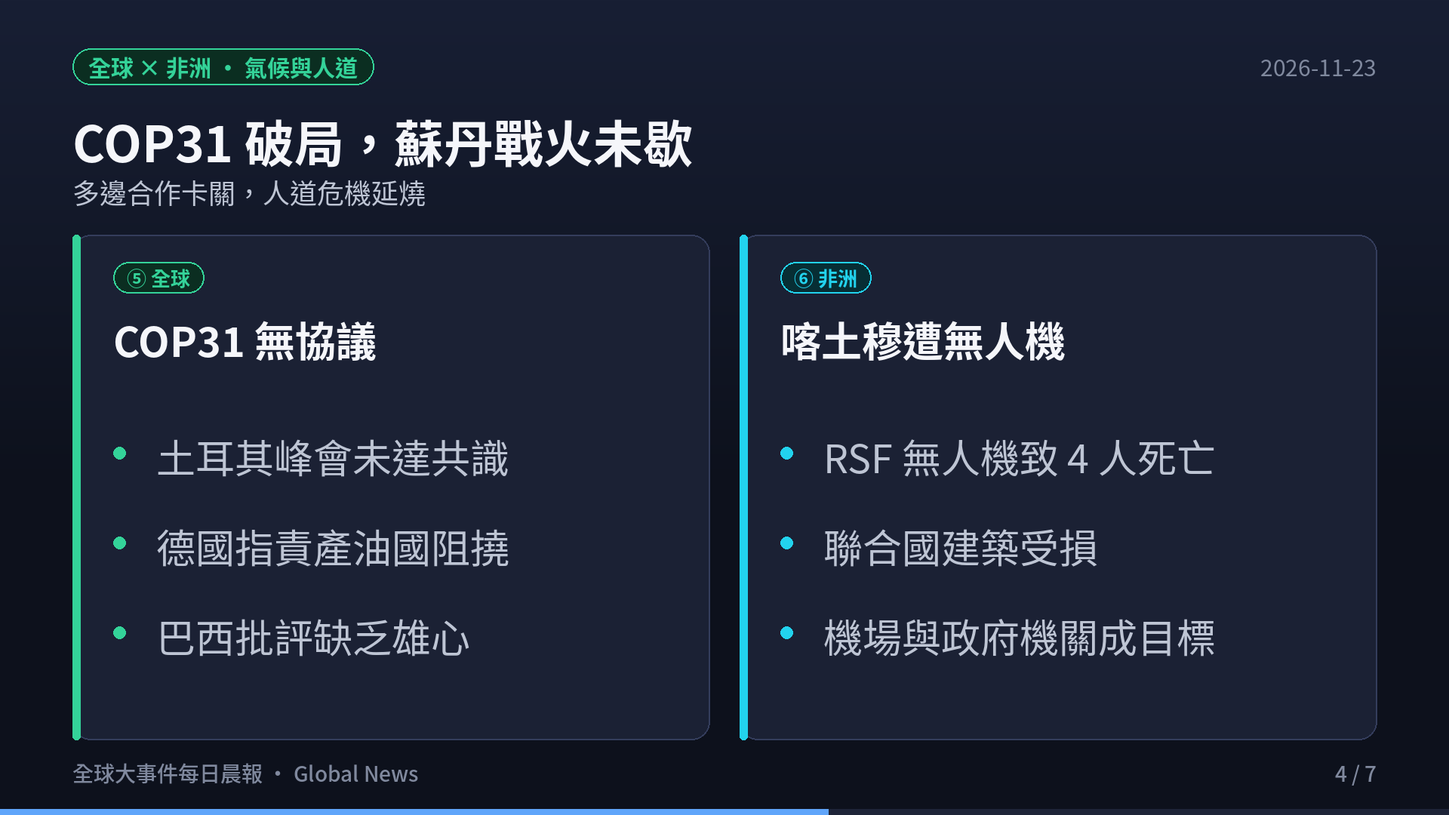
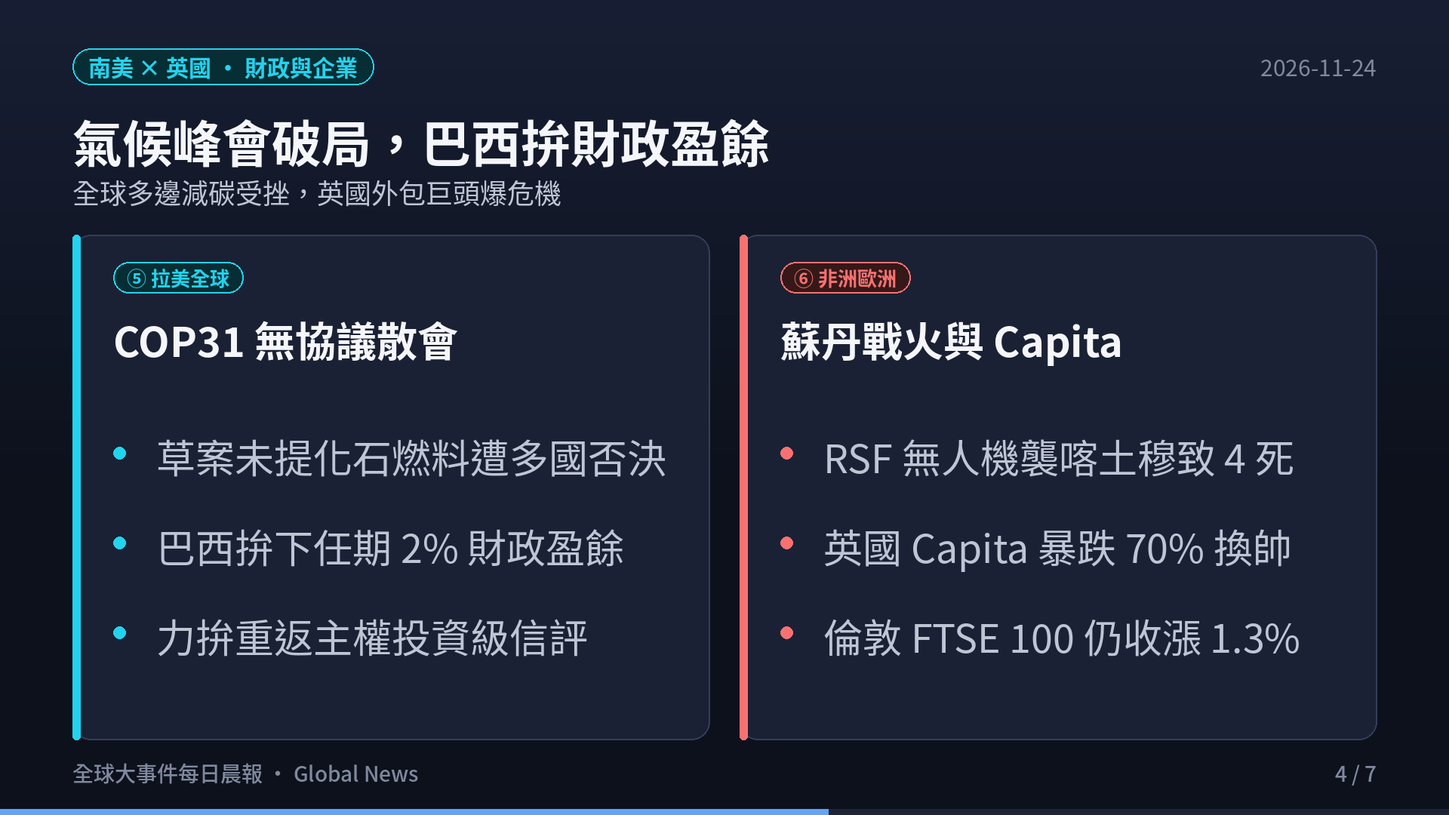
docs(global-news): 2026-11-24 briefing — Nvidia Jensen Huang rebound, Libya ship strike, COP31, top-10 economies ()

diff --git a/content/global-news/index.md b/content/global-news/index.md
@@ -1,56 +1,56 @@
 ---
-title: "美股六年最慘一週、荷莫茲油輪觸雷｜全球大事件晨報 2026-11-23"
+title: "黃仁勳回歸輝達狂飆31%、烏軍擊中俄艦｜全球大事件晨報 2026-11-24"
 url: "/global-news/"
-date: 2026-11-23T05:30:00+08:00
+date: 2026-11-24T05:30:00+08:00
 draft: false
 image: cover.png
 cover: "https://ckw19810413.github.io/global-news/cover.png"
-description: "2026-11-23 全球晨報：美股六年最慘一週、荷莫茲油輪觸雷、COP31 破局、中國穩市政策包，以及前十大經濟體動向。"
-tags: ["全球大事件", "國際局勢", "總體經濟", "美股", "荷莫茲海峽", "COP31"]
+description: "2026-11-24 全球晨報：黃仁勳復任輝達 CEO 引爆美股最強單日反彈、中國下調融資保證金至 80%、油價跌破 90 美元、烏軍擊中利比亞外海俄艦、COP31 破局與前十大經濟體動向。"
+tags: ["全球大事件", "國際局勢", "總體經濟", "輝達", "美股", "荷莫茲海峽", "COP31"]
 categories: ["國際局勢", "總體經濟"]
 aliases:
-  - "/global-news/2026-11-23/"
+  - "/global-news/2026-11-24/"
 ---
 
 <div style="margin: 2rem 0; border-radius: 12px; overflow: hidden; box-shadow: 0 4px 20px rgba(0,0,0,0.12); border: 1px solid rgba(128,128,128,0.2);">
   <div style="position: relative; padding-bottom: 56.25%; height: 0; overflow: hidden; background: #0f121c;">
-    <iframe src="https://www.youtube.com/embed/jMlyXLZtvqo" title="2026-11-23 全球大事件晨報" style="position: absolute; top:0; left: 0; width: 100%; height: 100%; border: 0;" allow="accelerometer; autoplay; clipboard-write; encrypted-media; gyroscope; picture-in-picture; web-share" allowfullscreen></iframe>
+    <iframe src="https://www.youtube.com/embed/X4gx4qY2pKw" title="2026-11-24 全球大事件晨報" style="position: absolute; top:0; left: 0; width: 100%; height: 100%; border: 0;" allow="accelerometer; autoplay; clipboard-write; encrypted-media; gyroscope; picture-in-picture; web-share" allowfullscreen></iframe>
   </div>
 </div>
 
-> **一句話看今天：** AI 交易退潮讓全球股市走完六年來最慘的一週，荷莫茲海峽又傳油輪觸雷——風險資產退潮、能源風險溢價居高不下。
+> **一句話看今天：** 黃仁勳火速重掌輝達 CEO 引爆美股創 2025 年 4 月以來最強單日反彈，那斯達克飆漲 6.51%；同時烏克蘭無人艇在利比亞外海擊中兩艘俄國軍艦，油價則因供應增加與利比亞油管重啟跌破 90 美元。
 
 ## 今日六大焦點（各大洲）
 
-![AI 交易退潮，全球股市重挫](s02.png)
+![輝達領軍強彈，中國鬆綁融資護盤](s02.png)
 
-### ① 北美｜AI 交易退潮，華爾街進入修正
-週五標普 500 下跌 3.7%、那斯達克重挫 5.3%、道瓊 -1.9%；標普單週跌 8.6%，較十月高點回落近 12%，正式進入「修正」區間，是六年多來最差的一週。MSCI 全球股票指數單週跌 8.1%，VIX 升至七個月高點。輝達單週股價重挫約 23%，新華財經報導美國 SEC 正調查其潛在會計問題。
-來源：[ABC News 市場快報](https://www.abc.net.au/news/2026-11-23/asx-markets-business-live-news-november-23/107414602)、[Westpac IQ Morning Report](https://www.westpaciq.com.au/economics/2026/11/Morning-report-23-Nov-2026)、[新華財經早報](https://www.cnfin.com/hb-lb/detail/20261122/4498614_1.html)
+### ① 北美｜黃仁勳重掌輝達 CEO，美股創 2025 年 4 月以來最強單日反彈
+輝達（Nvidia）董事會週一（11/23）宣布立即恢復黃仁勳（Jensen Huang）執行長職務，帶動輝達股價單日暴漲 31%（市值暴增近 1 兆美元）。美股三大指數全面強彈，收復上週重挫逾半失地：那斯達克暴漲 6.51% 收 24,089.56 點、標普 500 跳漲 4.73% 收 7,237.17 點、道瓊工業指數大漲 1,447.98 點（+3.01%）收 49,595.31 點；美光（Micron）大漲 19%，CoreWeave 飆升 22%，Alphabet 與 Meta 亦上漲約 6%。
+來源：[CNBC 盤後整理](https://www.cnbc.com/2026/11/22/stock-market-today-live-updates.html)、[AP News](https://apnews.com/article/stocks-markets-rates-technology-ai-anthropic-49ba1beba78fa4ed2bd5898029f79c91)、[Investopedia](https://www.investopedia.com/stock-market-today-dow-jones-s-and-p-500-nasdaq-11232026-12274147)
 
-### ② 亞洲｜中國證監會推出穩市場政策包
-11 月 22 日，在證監會統籌下，上交所、深交所、北交所與中國結算聯合推出一系列政策，目標穩定市場預期；國家發改委同時要求各地加快政府投資項目建設與資金撥付。澳洲 ASX 期貨則預示第七個連跌交易日。
-來源：[CGTN](https://news.cgtn.com/news/2026-11-22/China-rolls-out-policy-package-to-stabilize-market-and-expectations-1ShDFzCbgqc/p.html)、[澎湃新聞／經濟日報財經早餐](https://www.thepaper.cn/newsDetail_forward_34532043)
+### ② 亞太｜中國下調融資最低保證金至 80%，澳洲聯儲示警通膨風險
+中國證監會週日（11/22）核准滬、深、北三大交易所將融資買入最低保證金比例由 100% 下調至 80%（11 月 30 日起生效），同時國有資金創紀錄規模買入 ETF 護盤；週一（11/23）上證指數收漲 0.15%，創業板指勁揚 3.08%。日本東京股市 11/23 因勤勞感謝日休市，今日（11/24）復市將正面迎接美股強彈與 12 月日銀升息預期。大洋洲方面，澳洲聯儲（RBA）最新模型警告工黨政府擬議調整資本利得稅優惠恐推升通膨，ASX 盤中隨美股期指反彈。
+來源：[新華社英文網](https://english.news.cn/20261123/4e3ca972a01a47a687ccdc205e285d2f/c.html)、[CNBC TV18](https://www.cnbctv18.com/market/chinas-government-backed-funds-ramp-up-etf-buying-to-record-as-rout-deepens-20039572.htm)、[JAPAN.co.jp](https://japan.co.jp/e/japan-market-desk/)、[Sharecafe](https://www.sharecafe.com.au/2026/11/23/rba-flags-inflation-risk-as-asx-rebounds/)
 
-![海峽水雷與俄船遇襲](s03.png)
+![波斯灣衝突持續，俄烏戰線延燒地中海](s03.png)
 
-### ③ 中東｜伊朗稱兩艘超級油輪在荷莫茲觸雷
-伊朗革命衛隊（IRGC）海軍週日宣稱，兩艘超級油輪在荷莫茲海峽附近觸雷後「發生爆炸並停航」；IRGC 也稱攻擊了巴林的美軍愛國者防空雷達，葉門胡塞武裝則對沙烏地重啟攻擊。英國 UKMTO 證實美軍封鎖線附近發生「涉及軍事力量」的油輪事件。布蘭特原油約 92.6 美元。（伊方說法，尚待獨立證實）
-來源：[Anadolu](https://www.aa.com.tr/en/middle-east/iran-says-2-supertankers-struck-naval-mines-near-strait-of-hormuz/4133736)、[Euronews](https://www.euronews.com/2026/11/22/tanker-incident-involving-military-forces-reported-in-strait-of-hormuz)、[Investing.com](https://www.investing.com/news/economy-news/iran-asserts-control-over-hormuz-as-strikes-on-bahrain-and-saudi-arabia-escalate-5043802)
+### ③ 中東｜伊朗再襲波斯灣據點，布蘭特原油回落跌破 90 美元
+伊朗在短暫停火間隙後再度對波斯灣美軍基地與民用目標發動襲擊；美國總統川普表示目前無需恢復大規模軍事行動，但要求伊朗停止企圖封鎖或控制荷莫茲海峽，卡達代表團亦在德黑蘭進行外交斡旋。受中東出口供給回升與利比亞 Sharara 油管重啟影響，週一國際油價走低：布蘭特原油期貨收跌 3.20 美元（-3.5%）至每桶 89.37 美元，WTI 原油收跌 3.24 美元至每桶 80.17 美元。
+來源：[Al Jazeera](https://www.aljazeera.com/video/inside-story/2026/11/23/iran-hits-us-bases-and-civilian-sites-in-the-gulf-after-a-lull)、[AP News](https://apnews.com/article/mideast-iran-gaza-israel-houthis-libya-november-23-2026-c2cb6de3515f887a5786c1147e918489)、[Newsquawk](https://www.newsquawk.com/headlines/crude-wrap-wti-f7-settles-usd-324-lower-at-8017bbl-brent-f7-settles-usd-320-lower-at-8937bbl)
 
-### ④ 歐洲｜俄國船隻接連遇襲，俄軍續攻烏克蘭電網
-利比亞班加西港一艘俄國船發生爆炸，利比亞官員稱疑為烏克蘭無人機攻擊；芬蘭灣另有一艘赴俄貨輪遇襲後被拖離。俄軍則持續打擊烏克蘭電廠與敖德薩港口設施。
-來源：[The Guardian](https://www.theguardian.com/world)、[BBC World](https://www.bbc.com/news/world)
+### ④ 歐非｜烏軍無人艇擊中利比亞外海兩艘俄艦，歐盟拍板 2027 預算與 ECB 新人選
+烏克蘭總統澤倫斯基證實，烏軍海軍無人艇在利比亞東部班加西（Benghazi）外海擊中兩艘俄國艦艇，其中一艘護衛艦沉沒，將俄烏戰線推進至北非地中海海域。歐洲財金方面，歐盟理事會 11/23 正式通過 2027 年歐盟預算（承諾總額 1,997 億歐元、支付總額 2,115 億歐元）；法德也完成歐洲央行（ECB）執委提名政治協議，法國提名 Laurence Boone、德國提名 Markus Brunnermeier。
+來源：[AP News](https://apnews.com/article/libya-russia-ukriane-war-benghazi-ship-drone-cbd82b965a111dcf4605b8b2d0493780)、[The Guardian](https://www.theguardian.com/world/2026/nov/23/ukraine-naval-drones-strike-russian-warship-libya)、[Consilium](https://www.consilium.europa.eu/en/press/press-releases/2026/11/23/eu-budget-for-2027-council-gives-final-green-light/)、[RTÉ](https://www.rte.ie/news/business/2026/1123/1600251-france-and-germany-to-take-key-ecb-roles/)
 
-![COP31 破局，蘇丹戰火未歇](s04.png)
+![氣候峰會破局，巴西拚財政盈餘](s04.png)
 
-### ⑤ 全球｜COP31 氣候峰會破局
-在土耳其舉行、史上最長的聯合國氣候大會經兩週談判仍未通過最終宣言；德國政府指責沙烏地、俄羅斯等產油國阻撓，巴西代表團批評結果「缺乏雄心」，聯合國秘書長強調「科學毫無模糊空間」。
-來源：[UN News](https://news.un.org/)、[Deutschlandfunk](https://www.deutschlandfunk.de/nachrichten-index-40734.html)、[G1](https://g1.globo.com/meio-ambiente/noticia/2026/11/22/cop31-fracasso-brasil-turquia.ghtml)
+### ⑤ 全球與南美｜COP31 氣候峰會無協議破局，巴西瞄準 2% 基本財政盈餘
+在土耳其舉行的史上最長聯合國氣候大會（COP31）延長談判兩天後正式破局，主席國澳洲與土耳其提出的最終草案因未提及化石燃料退場而遭多國否決。南美最大經濟體巴西財長 Dario Durigan 週一宣布，政府目標在總統魯拉下一任期末達成占 GDP 1.5% 至 2% 的基本財政盈餘，力拚重返失去十餘年的投資級主權信評。
+來源：[ABC News](https://www.abc.net.au/news/2026-11-23/cop31-talks-break-down-in-longest-ever-un-climate-debate/107414772)、[BBC World](https://www.bbc.co.uk/news/articles/cky970n83rvjo)、[Reuters／Investing.com](https://www.investing.com/news/economy-news/brazil-targets-primary-surplus-of-up-to-2-of-gdp-by-end-of-lulas-next-term-5046231)
 
-### ⑥ 非洲｜蘇丹 RSF 無人機襲擊喀土穆
-蘇丹快速支援部隊（RSF）的無人機週日清晨襲擊首都喀土穆及周邊，造成 4 人死亡，聯合國一棟建築受損，政府機關與機場被列為目標。
-來源：[Al Jazeera](https://www.aljazeera.com/news/2026/11/22/rsf-drones-kill-four-in-khartoum)
+### ⑥ 非洲與英國市場｜蘇丹無人機襲喀土穆；英國 Capita 暴跌 70%
+非洲方面，蘇丹快速支援部隊（RSF）無人機襲擊首都喀土穆造成 4 人死亡並波及聯合國設施；利比亞武裝團體一度關閉兩條油管造成全國約四分之一產量短暫中斷（Sharara 油管隨後恢復）。歐洲市場方面，英國大型外包商 Capita 因公務員退休金系統失靈且執行長辭職，股價單日崩跌 70%；但受美股強彈激勵，倫敦 FTSE 100 指數仍收漲 1.3% 至 10,480.82 點。
+來源：[Al Jazeera](https://www.aljazeera.com/news/2026/11/22/rsf-drones-kill-four-in-khartoum)、[BBC Business](https://www.bbc.co.uk/news/articles/c65y1qqw3kjxo)、[AJ Bell](https://www.ajbell.co.uk/news/latest/lunchtime-roundup)
 
 ## 前十大經濟體總覽
 
@@ -59,26 +59,26 @@ aliases:
 
 | # | 經濟體 | 今日焦點 | 訊號 |
 |---|---|---|---|
-| 1 | 美國 | 10 年債約 4.95%；通膨偏熱，12 月升息預期搖擺；標普進入修正 | ▼ 股市修正 |
-| 2 | 中國 | 證監會＋交易所穩市政策包、發改委催投資撥款 | ◆ 托底 |
-| 3 | 德國 | DAX 週五 -2.6%；總理梅爾茨反對歐盟長期預算妥協方案（增幅逾 40% 過高） | ▼ 承壓 |
-| 4 | 日本 | 日銀多數委員傾向 12 月升息，但終點利率分歧恐引發日圓賣壓 | ◆ 偏鷹 |
-| 5 | 印度 | 11 月外資淨流入創紀錄（約 1.22 兆盧比），被視為「反 AI 交易」；考慮限制非巴斯馬蒂米出口；印歐 FTA 預計 12/16 簽署 | ▲ 受惠 |
-| 6 | 英國 | Centrica 執行長警告電費飆漲衝擊；英歐降成本協議未必帶來降價 | ▼ 民生壓力 |
-| 7 | 法國 | 10 年債殖利率自中東衝突以來淨升約 180bp，2027 春季選舉前政治財政不確定 | ▼ 財政疑慮 |
-| 8 | 義大利 | S&P Global 下修 2027 展望，南歐高負債國恐受法國傳染 | ▼ 承壓 |
-| 9 | 加拿大 | 央行 10/28 升息 1 碼至 2.50%，為 2023 年 7 月以來首次 | ◆ 緊縮 |
-| 10 | 巴西 | 中間派政黨配合，國會可望通過財政調整案；對 COP31 結果表失望 | ◆ 觀察 |
+| 1 | 美國 | 輝達復職黃仁勳暴漲 31%；那指 +6.51%、標普 +4.73%、道瓊 +3.01%，創 2025/4 來最強單日反彈 | ▲ 強彈 |
+| 2 | 中國 | 證監會降融資保證金比例（100%→80%，11/30 生效）+ 國家隊護盤；創業板指 +3.08%、上證 +0.15% | ◆ 穩市 |
+| 3 | 德國 | DAX 指數收漲 2.15% 至 25,337.27 點重返兩萬五千點；提名 Markus Brunnermeier 出任 ECB 執委 | ▲ 反彈 |
+| 4 | 日本 | 11/23 勤勞感謝日休市，今日復市迎美股強彈；通膨逼近 3%，市場押注日銀 12 月再度升息 | ◆ 觀望 |
+| 5 | 印度 | 獲利了結與衍生品結算壓低 Nifty 50 跌 1.75%（25,349 點）、盧比收 92.91；但外資連 16 日淨買超（單日 +567.3 億盧比） | ▼ 回檔 |
+| 6 | 英國 | FTSE 100 收漲 1.3% 至 10,480.82 點；外包商 Capita 因退休金系統失靈與換帥單日暴跌 70% | ▲ 分化 |
+| 7 | 法國 | CAC 40 跟漲約 1.5%；提名 Laurence Boone 掌 ECB 市場操作執委，在歐盟長期預算談判推進農業補貼 | ▲ 穩健 |
+| 8 | 義大利 | 受多家銀行除息拖累約 1.4%，FTSE MIB 小漲 0.65% 收 49,021.93 點，科技股撐盤；2027 預算法案審議中 | ◆ 震盪 |
+| 9 | 加拿大 | 油價走低疊加美元轉強，加幣連 10 個交易日走貶至 1.4380（19 個月新低、2016 年以來最長連跌紀錄） | ▼ 匯壓 |
+| 10 | 巴西 | 財長 Durigan 宣布下任期末力拚 GDP 1.5%–2% 基本財政盈餘以重返投資級信評；批 COP31 缺乏雄心 | ◆ 整頓 |
 
-來源：[S&P Global 地緣風險簡報 11 月](https://www.spglobal.com/market-intelligence/en/news-insights/research/2026/11/geopolitical-risk-brief-november-2026)、[Reuters／Investing.com](https://www.investing.com/news/economy-news/analysisbojs-ambiguity-on-rate-hike-path-could-tempt-yen-bears-5040426)、[Times of India](https://timesofindia.indiatimes.com/business/india-business/record-rs-1-22-lakh-crore-foreign-inflows-is-india-becoming-the-worlds-anti-ai-trade/articleshow/136075365.cms)、[The Hindu](https://www.thehindu.com/news/top-news-of-the-day-november-22-2026/article71731458.ece)、[Deutschlandfunk](https://www.deutschlandfunk.de/merz-gegen-kompromissvorschlag-von-ratspraesident-costa-102.html)、[BBC Business](https://www.bbc.com/business)、[Bank of Canada](https://www.bankofcanada.ca/2026/10/fad-press-release-2026-10-28/)、[Estadão](https://digital.estadao.com.br/o-estado-de-s-paulo/20261122)
+來源：[CNBC](https://www.cnbc.com/2026/11/22/stock-market-today-live-updates.html)、[Xinhua](https://english.news.cn/20261123/4e3ca972a01a47a687ccdc205e285d2f/c.html)、[Finanzen.net](https://www.finanzen.net/nachricht/aktien/heute-im-fokus-23-11-2026-16079765)、[TradingView／MaceNews](https://www.tradingview.com/news/macenews:b459fd8cd094b:0-japan-week-ahead-rising-costs-weak-yen-hurting-households-but-boj-board-seen-leaning-toward-another-rate-hike-in-december/)、[Indian Express](https://indianexpress.com/article/business/sensex-nifty-fall-profit-booking-fno-expiry-india-markets-10975373/)、[CNBC TV18](https://www.cnbctv18.com/market/fiis-pump-in-rs-5673-crore-despite-market-rout-extend-buying-streak-to-16-sessions-20040215.htm)、[MilanoFinanza](https://www.milanofinanza.it/news/borse-oggi-diretta-23-novembre-2026-chiusura-apertura-europee-borsa-milano-ftse-mib-piazza-affari-202611230748404021)、[Kitco／Reuters](https://www.kitco.com/news/off-the-wire/2026-11-23/canadian-dollar-falls-10th-straight-session-oil-slides)、[Reuters／Investing.com](https://www.investing.com/news/economy-news/brazil-targets-primary-surplus-of-up-to-2-of-gdp-by-end-of-lulas-next-term-5046231)
 
 ## 今日重點
 
 ![今日重點](s07.png)
 
-1. **AI 估值修正已擴散**到全球股市與銅、金等大宗商品。
-2. **荷莫茲與俄烏雙線**推升能源風險溢價。
-3. **日本、加拿大偏鷹**，歐洲南翼（法、義）財政利差值得持續觀察。
+1. **AI 權值股出現劇烈報復性反彈**，但單一事件驅動代表市場波動率仍處於高檔。
+2. **布蘭特原油跌破 90 美元**，但荷莫茲海峽談判與俄烏地中海新戰線仍具高度變數。
+3. **日銀 12 月升息預期與歐盟新財金高層換血**將持續牽動未來數週匯市與債市定價。
 
 *本文僅供資訊參考，不構成任何投資建議。*
 

diff --git a/content/blog/2026-11-24-global-news/index.md b/content/blog/2026-11-24-global-news/index.md
@@ -1,0 +1,91 @@
+---
+title: "黃仁勳回歸輝達狂飆31%、烏軍擊中俄艦｜全球大事件晨報 2026-11-24"
+date: 2026-11-24T05:30:00+08:00
+draft: false
+image: cover.png
+cover: "https://ckw19810413.github.io/blog/2026-11-24-global-news/cover.png"
+description: "2026-11-24 全球晨報：黃仁勳復任輝達 CEO 引爆美股最強單日反彈、中國下調融資保證金至 80%、油價跌破 90 美元、烏軍擊中利比亞外海俄艦、COP31 破局與前十大經濟體動向。"
+tags: ["全球大事件", "國際局勢", "總體經濟", "輝達", "美股", "荷莫茲海峽", "COP31"]
+categories: ["國際局勢", "總體經濟"]
+---
+
+<div style="margin: 2rem 0; border-radius: 12px; overflow: hidden; box-shadow: 0 4px 20px rgba(0,0,0,0.12); border: 1px solid rgba(128,128,128,0.2);">
+  <div style="position: relative; padding-bottom: 56.25%; height: 0; overflow: hidden; background: #0f121c;">
+    <iframe src="https://www.youtube.com/embed/X4gx4qY2pKw" title="2026-11-24 全球大事件晨報" style="position: absolute; top:0; left: 0; width: 100%; height: 100%; border: 0;" allow="accelerometer; autoplay; clipboard-write; encrypted-media; gyroscope; picture-in-picture; web-share" allowfullscreen></iframe>
+  </div>
+</div>
+
+> **一句話看今天：** 黃仁勳火速重掌輝達 CEO 引爆美股創 2025 年 4 月以來最強單日反彈，那斯達克飆漲 6.51%；同時烏克蘭無人艇在利比亞外海擊中兩艘俄國軍艦，油價則因供應增加與利比亞油管重啟跌破 90 美元。
+
+## 今日六大焦點（各大洲）
+
+![輝達領軍強彈，中國鬆綁融資護盤](s02.png)
+
+### ① 北美｜黃仁勳重掌輝達 CEO，美股創 2025 年 4 月以來最強單日反彈
+輝達（Nvidia）董事會週一（11/23）宣布立即恢復黃仁勳（Jensen Huang）執行長職務，帶動輝達股價單日暴漲 31%（市值暴增近 1 兆美元）。美股三大指數全面強彈，收復上週重挫逾半失地：那斯達克暴漲 6.51% 收 24,089.56 點、標普 500 跳漲 4.73% 收 7,237.17 點、道瓊工業指數大漲 1,447.98 點（+3.01%）收 49,595.31 點；美光（Micron）大漲 19%，CoreWeave 飆升 22%，Alphabet 與 Meta 亦上漲約 6%。
+來源：[CNBC 盤後整理](https://www.cnbc.com/2026/11/22/stock-market-today-live-updates.html)、[AP News](https://apnews.com/article/stocks-markets-rates-technology-ai-anthropic-49ba1beba78fa4ed2bd5898029f79c91)、[Investopedia](https://www.investopedia.com/stock-market-today-dow-jones-s-and-p-500-nasdaq-11232026-12274147)
+
+### ② 亞太｜中國下調融資最低保證金至 80%，澳洲聯儲示警通膨風險
+中國證監會週日（11/22）核准滬、深、北三大交易所將融資買入最低保證金比例由 100% 下調至 80%（11 月 30 日起生效），同時國有資金創紀錄規模買入 ETF 護盤；週一（11/23）上證指數收漲 0.15%，創業板指勁揚 3.08%。日本東京股市 11/23 因勤勞感謝日休市，今日（11/24）復市將正面迎接美股強彈與 12 月日銀升息預期。大洋洲方面，澳洲聯儲（RBA）最新模型警告工黨政府擬議調整資本利得稅優惠恐推升通膨，ASX 盤中隨美股期指反彈。
+來源：[新華社英文網](https://english.news.cn/20261123/4e3ca972a01a47a687ccdc205e285d2f/c.html)、[CNBC TV18](https://www.cnbctv18.com/market/chinas-government-backed-funds-ramp-up-etf-buying-to-record-as-rout-deepens-20039572.htm)、[JAPAN.co.jp](https://japan.co.jp/e/japan-market-desk/)、[Sharecafe](https://www.sharecafe.com.au/2026/11/23/rba-flags-inflation-risk-as-asx-rebounds/)
+
+![波斯灣衝突持續，俄烏戰線延燒地中海](s03.png)
+
+### ③ 中東｜伊朗再襲波斯灣據點，布蘭特原油回落跌破 90 美元
+伊朗在短暫停火間隙後再度對波斯灣美軍基地與民用目標發動襲擊；美國總統川普表示目前無需恢復大規模軍事行動，但要求伊朗停止企圖封鎖或控制荷莫茲海峽，卡達代表團亦在德黑蘭進行外交斡旋。受中東出口供給回升與利比亞 Sharara 油管重啟影響，週一國際油價走低：布蘭特原油期貨收跌 3.20 美元（-3.5%）至每桶 89.37 美元，WTI 原油收跌 3.24 美元至每桶 80.17 美元。
+來源：[Al Jazeera](https://www.aljazeera.com/video/inside-story/2026/11/23/iran-hits-us-bases-and-civilian-sites-in-the-gulf-after-a-lull)、[AP News](https://apnews.com/article/mideast-iran-gaza-israel-houthis-libya-november-23-2026-c2cb6de3515f887a5786c1147e918489)、[Newsquawk](https://www.newsquawk.com/headlines/crude-wrap-wti-f7-settles-usd-324-lower-at-8017bbl-brent-f7-settles-usd-320-lower-at-8937bbl)
+
+### ④ 歐非｜烏軍無人艇擊中利比亞外海兩艘俄艦，歐盟拍板 2027 預算與 ECB 新人選
+烏克蘭總統澤倫斯基證實，烏軍海軍無人艇在利比亞東部班加西（Benghazi）外海擊中兩艘俄國艦艇，其中一艘護衛艦沉沒，將俄烏戰線推進至北非地中海海域。歐洲財金方面，歐盟理事會 11/23 正式通過 2027 年歐盟預算（承諾總額 1,997 億歐元、支付總額 2,115 億歐元）；法德也完成歐洲央行（ECB）執委提名政治協議，法國提名 Laurence Boone、德國提名 Markus Brunnermeier。
+來源：[AP News](https://apnews.com/article/libya-russia-ukriane-war-benghazi-ship-drone-cbd82b965a111dcf4605b8b2d0493780)、[The Guardian](https://www.theguardian.com/world/2026/nov/23/ukraine-naval-drones-strike-russian-warship-libya)、[Consilium](https://www.consilium.europa.eu/en/press/press-releases/2026/11/23/eu-budget-for-2027-council-gives-final-green-light/)、[RTÉ](https://www.rte.ie/news/business/2026/1123/1600251-france-and-germany-to-take-key-ecb-roles/)
+
+![氣候峰會破局，巴西拚財政盈餘](s04.png)
+
+### ⑤ 全球與南美｜COP31 氣候峰會無協議破局，巴西瞄準 2% 基本財政盈餘
+在土耳其舉行的史上最長聯合國氣候大會（COP31）延長談判兩天後正式破局，主席國澳洲與土耳其提出的最終草案因未提及化石燃料退場而遭多國否決。南美最大經濟體巴西財長 Dario Durigan 週一宣布，政府目標在總統魯拉下一任期末達成占 GDP 1.5% 至 2% 的基本財政盈餘，力拚重返失去十餘年的投資級主權信評。
+來源：[ABC News](https://www.abc.net.au/news/2026-11-23/cop31-talks-break-down-in-longest-ever-un-climate-debate/107414772)、[BBC World](https://www.bbc.co.uk/news/articles/cky970n83rvjo)、[Reuters／Investing.com](https://www.investing.com/news/economy-news/brazil-targets-primary-surplus-of-up-to-2-of-gdp-by-end-of-lulas-next-term-5046231)
+
+### ⑥ 非洲與英國市場｜蘇丹無人機襲喀土穆；英國 Capita 暴跌 70%
+非洲方面，蘇丹快速支援部隊（RSF）無人機襲擊首都喀土穆造成 4 人死亡並波及聯合國設施；利比亞武裝團體一度關閉兩條油管造成全國約四分之一產量短暫中斷（Sharara 油管隨後恢復）。歐洲市場方面，英國大型外包商 Capita 因公務員退休金系統失靈且執行長辭職，股價單日崩跌 70%；但受美股強彈激勵，倫敦 FTSE 100 指數仍收漲 1.3% 至 10,480.82 點。
+來源：[Al Jazeera](https://www.aljazeera.com/news/2026/11/22/rsf-drones-kill-four-in-khartoum)、[BBC Business](https://www.bbc.co.uk/news/articles/c65y1qqw3kjxo)、[AJ Bell](https://www.ajbell.co.uk/news/latest/lunchtime-roundup)
+
+## 前十大經濟體總覽
+
+![前十大經濟體（上）](s05.png)
+![前十大經濟體（下）](s06.png)
+
+| # | 經濟體 | 今日焦點 | 訊號 |
+|---|---|---|---|
+| 1 | 美國 | 輝達復職黃仁勳暴漲 31%；那指 +6.51%、標普 +4.73%、道瓊 +3.01%，創 2025/4 來最強單日反彈 | ▲ 強彈 |
+| 2 | 中國 | 證監會降融資保證金比例（100%→80%，11/30 生效）+ 國家隊護盤；創業板指 +3.08%、上證 +0.15% | ◆ 穩市 |
+| 3 | 德國 | DAX 指數收漲 2.15% 至 25,337.27 點重返兩萬五千點；提名 Markus Brunnermeier 出任 ECB 執委 | ▲ 反彈 |
+| 4 | 日本 | 11/23 勤勞感謝日休市，今日復市迎美股強彈；通膨逼近 3%，市場押注日銀 12 月再度升息 | ◆ 觀望 |
+| 5 | 印度 | 獲利了結與衍生品結算壓低 Nifty 50 跌 1.75%（25,349 點）、盧比收 92.91；但外資連 16 日淨買超（單日 +567.3 億盧比） | ▼ 回檔 |
+| 6 | 英國 | FTSE 100 收漲 1.3% 至 10,480.82 點；外包商 Capita 因退休金系統失靈與換帥單日暴跌 70% | ▲ 分化 |
+| 7 | 法國 | CAC 40 跟漲約 1.5%；提名 Laurence Boone 掌 ECB 市場操作執委，在歐盟長期預算談判推進農業補貼 | ▲ 穩健 |
+| 8 | 義大利 | 受多家銀行除息拖累約 1.4%，FTSE MIB 小漲 0.65% 收 49,021.93 點，科技股撐盤；2027 預算法案審議中 | ◆ 震盪 |
+| 9 | 加拿大 | 油價走低疊加美元轉強，加幣連 10 個交易日走貶至 1.4380（19 個月新低、2016 年以來最長連跌紀錄） | ▼ 匯壓 |
+| 10 | 巴西 | 財長 Durigan 宣布下任期末力拚 GDP 1.5%–2% 基本財政盈餘以重返投資級信評；批 COP31 缺乏雄心 | ◆ 整頓 |
+
+來源：[CNBC](https://www.cnbc.com/2026/11/22/stock-market-today-live-updates.html)、[Xinhua](https://english.news.cn/20261123/4e3ca972a01a47a687ccdc205e285d2f/c.html)、[Finanzen.net](https://www.finanzen.net/nachricht/aktien/heute-im-fokus-23-11-2026-16079765)、[TradingView／MaceNews](https://www.tradingview.com/news/macenews:b459fd8cd094b:0-japan-week-ahead-rising-costs-weak-yen-hurting-households-but-boj-board-seen-leaning-toward-another-rate-hike-in-december/)、[Indian Express](https://indianexpress.com/article/business/sensex-nifty-fall-profit-booking-fno-expiry-india-markets-10975373/)、[CNBC TV18](https://www.cnbctv18.com/market/fiis-pump-in-rs-5673-crore-despite-market-rout-extend-buying-streak-to-16-sessions-20040215.htm)、[MilanoFinanza](https://www.milanofinanza.it/news/borse-oggi-diretta-23-novembre-2026-chiusura-apertura-europee-borsa-milano-ftse-mib-piazza-affari-202611230748404021)、[Kitco／Reuters](https://www.kitco.com/news/off-the-wire/2026-11-23/canadian-dollar-falls-10th-straight-session-oil-slides)、[Reuters／Investing.com](https://www.investing.com/news/economy-news/brazil-targets-primary-surplus-of-up-to-2-of-gdp-by-end-of-lulas-next-term-5046231)
+
+## 今日重點
+
+![今日重點](s07.png)
+
+1. **AI 權值股出現劇烈報復性反彈**，但單一事件驅動代表市場波動率仍處於高檔。
+2. **布蘭特原油跌破 90 美元**，但荷莫茲海峽談判與俄烏地中海新戰線仍具高度變數。
+3. **日銀 12 月升息預期與歐盟新財金高層換血**將持續牽動未來數週匯市與債市定價。
+
+*本文僅供資訊參考，不構成任何投資建議。*
+
+---
+
+### 🔧 這份晨報是怎麼做出來的？
+從新聞調研、旁白配音、配樂到 YouTube 上架，全部由一套 AI 自動化工作流完成。想把同樣的工具用在你的工作上：
+
+- 🛒 **[Slashman Tools 全套數位工具包（Everything Bundle）](https://slashmaster6.gumroad.com/l/everything-bundle)**
+- 🛒 [Gumroad 數位商品專區](https://slashmaster6.gumroad.com/)（範本、提示詞、自動化教學）
+- 🧰 [SlashmanTools 免費線上工具箱](https://slashmantools.us/)
+- ☕ **Ko-fi 支持**：[ytstories0413](https://ko-fi.com/ytstories0413) ｜ [slashman413](https://ko-fi.com/slashman413)
+- 📚 延伸閱讀：[《晶片戰爭》Chip War](https://www.amazon.com/dp/059371671X?tag=ytstories0413-20)
